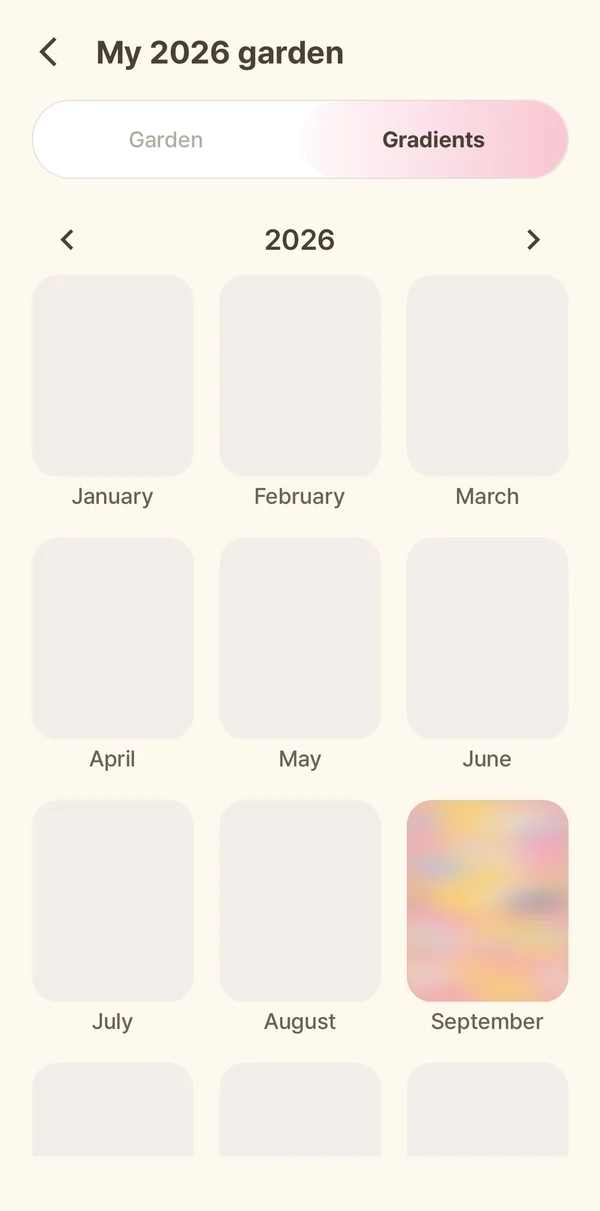
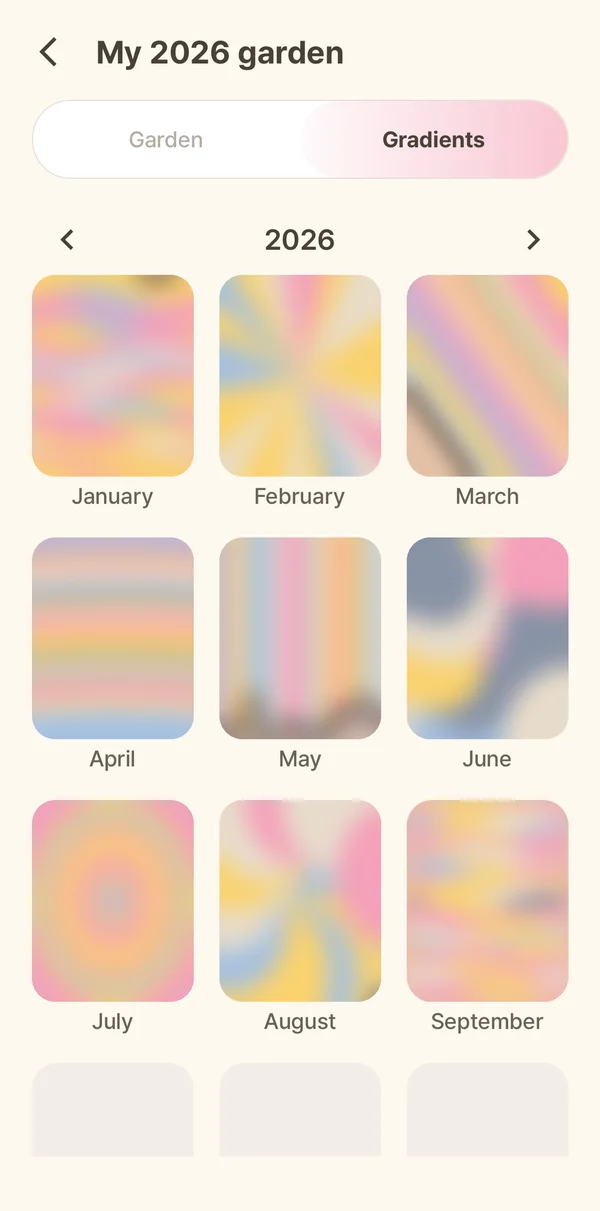
홈페이지 그라데이션 화면: 1~9월이 찬 모습(앱의 그라데이션 생성 규칙으로 그림)

diff --git a/ko/index.html b/ko/index.html
@@ -7,11 +7,11 @@
   <title>데일리몽글 · 광고 없는 감정일기</title>
   <meta name="description" content="몽글이 한 번 누르고 기분만 고르면 끝. 더 남기고 싶은 날엔 짧은 글이나 사진도 붙여 봐요. 광고 없는 감정일기, 데일리몽글.">
   <!-- 파비콘은 회사 심볼(스티커 M) — assets/brand -->
-  <link rel="icon" href="../favicon.ico?v=38" sizes="any">
-  <link rel="icon" href="../assets/brand/favicon-32.png?v=38" type="image/png" sizes="32x32">
-  <link rel="icon" href="../assets/brand/favicon-192.png?v=38" type="image/png" sizes="192x192">
+  <link rel="icon" href="../favicon.ico?v=39" sizes="any">
+  <link rel="icon" href="../assets/brand/favicon-32.png?v=39" type="image/png" sizes="32x32">
+  <link rel="icon" href="../assets/brand/favicon-192.png?v=39" type="image/png" sizes="192x192">
   <link rel="canonical" href="https://mauvelabsinc.com/ko/">
-  <link rel="apple-touch-icon" href="../assets/brand/apple-touch-icon.png?v=38">
+  <link rel="apple-touch-icon" href="../assets/brand/apple-touch-icon.png?v=39">
   <meta name="theme-color" content="#FFF8F0">
   <!-- 사업자등록번호 등 숫자를 아이폰이 전화번호 링크로 바꾸지 않게 -->
   <meta name="format-detection" content="telephone=no">
@@ -31,12 +31,12 @@
   <link rel="alternate" hreflang="x-default" href="https://mauvelabsinc.com/">
   <link rel="preload" href="../assets/fraunces.woff2" as="font" type="font/woff2" crossorigin>
   <link rel="stylesheet" href="https://cdn.jsdelivr.net/gh/orioncactus/pretendard@v1.3.9/dist/web/variable/pretendardvariable-dynamic-subset.min.css">
-  <link rel="stylesheet" href="../assets/site-v2.css?v=38">
+  <link rel="stylesheet" href="../assets/site-v2.css?v=39">
 </head>
 <body>
 <header class="nav wrap">
   <!-- 회사 로고(모브랩스). 원본은 assets/brand/mauvelabs-logo-original.png -->
-  <a class="brand brand-logo" href="./" aria-label="Mauve Labs"><img src="../assets/brand/mauvelabs-logo@2x.png?v=38" alt="Mauve Labs" height="48"></a>
+  <a class="brand brand-logo" href="./" aria-label="Mauve Labs"><img src="../assets/brand/mauvelabs-logo@2x.png?v=39" alt="Mauve Labs" height="48"></a>
   <nav aria-label="Main">
     <a href="#how">사용법</a>
     <a href="#private" class="hide-sm">개인정보</a>
@@ -52,15 +52,15 @@
       <h1>지금 내 기분, <em>가볍게</em> 남겨요.</h1>
       <p class="lede">몽글이 한 번 누르고 기분만 고르면 끝이에요. 더 쓰고 싶은 날엔 짧은 글이나 사진도 붙여 봐요. 광고도, 부담도 없어요.</p>
       <div class="badges">
-        <a href="https://apps.apple.com/app/id6814691795" aria-label="App Store에서 다운로드"><img src="../img/ko/badge-app-store.svg?v=38" alt="App Store에서 다운로드" height="50"></a>
-        <a href="https://play.google.com/store/apps/details?id=com.mauvelabs.maeumlog&amp;referrer=utm_source%3Dmauvelabs-site%26utm_medium%3Dhero" aria-label="Google Play에서 다운로드하기" class="gp"><img src="../img/ko/badge-google-play.png?v=38" alt="Google Play에서 다운로드하기" height="50"></a>
+        <a href="https://apps.apple.com/app/id6814691795" aria-label="App Store에서 다운로드"><img src="../img/ko/badge-app-store.svg?v=39" alt="App Store에서 다운로드" height="50"></a>
+        <a href="https://play.google.com/store/apps/details?id=com.mauvelabs.maeumlog&amp;referrer=utm_source%3Dmauvelabs-site%26utm_medium%3Dhero" aria-label="Google Play에서 다운로드하기" class="gp"><img src="../img/ko/badge-google-play.png?v=39" alt="Google Play에서 다운로드하기" height="50"></a>
       </div>
       <p class="fine">무료 다운로드 · 아이폰, 안드로이드</p>
     </div>
     <div class="hero-art" aria-hidden="true">
       <!-- 홈 화면이 주인공이고, 통계(기분 그래프)는 그 뒤 옆에 조금 작게(홈 화면을 가리지 않는다) -->
-      <img class="phone phone-side" src="../img/ko/screen-5.webp?v=38" alt="" width="210">
-      <img class="phone phone-main" src="../img/ko/screen-1.webp?v=38" alt="" width="300">
+      <img class="phone phone-side" src="../img/ko/screen-5.webp?v=39" alt="" width="210">
+      <img class="phone phone-main" src="../img/ko/screen-1.webp?v=39" alt="" width="300">
       <span class="float m1 mongle" data-anim="mongle-very-good-bounce"><img src="../img/mongle-very-good.webp" alt=""></span>
       <span class="float m2 mongle" data-anim="mongle-good-bounce"><img src="../img/mongle-good.webp" alt=""></span>
     </div>
@@ -87,10 +87,10 @@
       <div class="story-stage" aria-hidden="true">
         <figure class="polaroid stage-frame"><span class="tape stage-tape"></span>
           <div class="stage-screens">
-            <img src="../img/ko/screen-2.webp?v=38" alt="" class="on" data-step="0">
-            <img src="../img/ko/screen-4.webp?v=38" alt="" data-step="1">
-            <img src="../img/ko/screen-gradient.webp?v=38" alt="" data-step="2">
-            <img src="../img/ko/screen-6.webp?v=38" alt="" data-step="3">
+            <img src="../img/ko/screen-2.webp?v=39" alt="" class="on" data-step="0">
+            <img src="../img/ko/screen-4.webp?v=39" alt="" data-step="1">
+            <img src="../img/ko/screen-gradient.webp?v=39" alt="" data-step="2">
+            <img src="../img/ko/screen-6.webp?v=39" alt="" data-step="3">
           </div>
         </figure>
       </div>
@@ -99,25 +99,25 @@
           <span class="step-num">01</span>
           <h3>톡톡 눌러서 끝</h3>
           <p>기분을 고르고, 어떤 감정이었는지, 뭘 했는지 톡톡 눌러요. 글은 안 써도 괜찮아요.</p>
-          <figure class="polaroid step-shot tilt-l"><span class="tape pink"></span><img src="../img/ko/screen-2.webp?v=38" alt="데일리몽글에서 기분·감정·활동을 고르는 화면" width="240"></figure>
+          <figure class="polaroid step-shot tilt-l"><span class="tape pink"></span><img src="../img/ko/screen-2.webp?v=39" alt="데일리몽글에서 기분·감정·활동을 고르는 화면" width="240"></figure>
         </li>
         <li class="step" data-step="1">
           <span class="step-num">02</span>
           <h3>한 달이 꽃으로 피어요</h3>
           <p>하루가 그날 기분 색 꽃잎 한 장이 돼요. 한 달이 지나면 내 마음들이 꽃 한 송이로 피어나요.</p>
-          <figure class="polaroid step-shot tilt-r"><span class="tape mint"></span><img src="../img/ko/screen-4.webp?v=38" alt="데일리몽글에서 한 달의 기분으로 핀 꽃" width="240"></figure>
+          <figure class="polaroid step-shot tilt-r"><span class="tape mint"></span><img src="../img/ko/screen-4.webp?v=39" alt="데일리몽글에서 한 달의 기분으로 핀 꽃" width="240"></figure>
         </li>
         <li class="step" data-step="2">
           <span class="step-num">03</span>
           <h3>한 달이 끝나면, 그라데이션 한 장</h3>
           <p>달이 끝나면 그 달의 기분 색이 하나로 섞여 그라데이션이 돼요. 열두 장이 모이면 나의 한 해예요.</p>
-          <figure class="polaroid step-shot tilt-r"><span class="tape pink"></span><img src="../img/ko/screen-gradient.webp?v=38" alt="데일리몽글의 달마다 남는 기분 그라데이션" width="240"></figure>
+          <figure class="polaroid step-shot tilt-r"><span class="tape pink"></span><img src="../img/ko/screen-gradient.webp?v=39" alt="데일리몽글의 달마다 남는 기분 그라데이션" width="240"></figure>
         </li>
         <li class="step" data-step="3">
           <span class="step-num">04</span>
           <h3>기분 좋은 날엔 뭐가 있었을까?</h3>
           <p>통계를 보면 기분 좋은 날 주로 뭘 했는지 알 수 있어요. 친구를 만났나? 운동했나? 맛있는 한 끼?</p>
-          <figure class="polaroid step-shot tilt-l"><span class="tape lilac"></span><img src="../img/ko/screen-6.webp?v=38" alt="기분에 영향을 준 활동을 보여 주는 데일리몽글 통계" width="240"></figure>
+          <figure class="polaroid step-shot tilt-l"><span class="tape lilac"></span><img src="../img/ko/screen-6.webp?v=39" alt="기분에 영향을 준 활동을 보여 주는 데일리몽글 통계" width="240"></figure>
         </li>
       </ol>
     </div>
@@ -157,8 +157,8 @@
     <span class="mongle cta-mongle" data-anim="mongle-normal-idle"><img src="../img/mongle-normal.webp" alt="" width="180"></span>
     <h2>오늘은 나한테 조금만 너그럽게.</h2>
     <div class="badges center">
-      <a href="https://apps.apple.com/app/id6814691795" aria-label="App Store에서 다운로드"><img src="../img/ko/badge-app-store.svg?v=38" alt="App Store에서 다운로드" height="50"></a>
-      <a href="https://play.google.com/store/apps/details?id=com.mauvelabs.maeumlog&amp;referrer=utm_source%3Dmauvelabs-site%26utm_medium%3Dfooter" aria-label="Google Play에서 다운로드하기" class="gp"><img src="../img/ko/badge-google-play.png?v=38" alt="Google Play에서 다운로드하기" height="50"></a>
+      <a href="https://apps.apple.com/app/id6814691795" aria-label="App Store에서 다운로드"><img src="../img/ko/badge-app-store.svg?v=39" alt="App Store에서 다운로드" height="50"></a>
+      <a href="https://play.google.com/store/apps/details?id=com.mauvelabs.maeumlog&amp;referrer=utm_source%3Dmauvelabs-site%26utm_medium%3Dfooter" aria-label="Google Play에서 다운로드하기" class="gp"><img src="../img/ko/badge-google-play.png?v=39" alt="Google Play에서 다운로드하기" height="50"></a>
     </div>
   </section>
 </main>
@@ -178,7 +178,7 @@
   </div>
 <dl class="biz"><dt>상호</dt><dd>모브랩스(Mauve Labs)</dd><dt>대표자</dt><dd>주창환</dd><dt>사업자등록번호</dt><dd>485-21-02219</dd><dt>통신판매업신고번호</dt><dd>제2026-서울금천-1495호</dd><dt>주소</dt><dd>서울특별시 금천구 범안로12길 29-20, A동 301호(독산동)</dd><dt>이메일</dt><dd>mauvelabs@mauvelabsinc.com</dd></dl><p class="legal">© 2026 모브랩스</p>
 </footer>
-<script src="../assets/scroll.js?v=38"></script>
+<script src="../assets/scroll.js?v=39"></script>
 <script src="../assets/lottie_light.min.js"></script>
 <script>
 /* 몽글이 애니메이션 — 앱과 같은 Lottie(dailycumulus-rn assets/animations)를 웹용으로 줄인 것.
@@ -192,7 +192,7 @@
   document.querySelectorAll('.mongle[data-anim]').forEach(function (el, i) {
     var box = document.createElement('span'); box.className = 'mongle-anim'; el.appendChild(box);
     var a = lottie.loadAnimation({ container: box, renderer: 'svg', loop: true, autoplay: !io,
-      path: '../anim/' + el.dataset.anim + '.json?v=38', rendererSettings: { preserveAspectRatio: 'xMidYMid meet' } });
+      path: '../anim/' + el.dataset.anim + '.json?v=39', rendererSettings: { preserveAspectRatio: 'xMidYMid meet' } });
     a.addEventListener('DOMLoaded', function () {
       a.goToAndStop((i * 17) % a.totalFrames, true); /* 같은 몽글이가 똑같이 움직이지 않게 시작 프레임을 엇갈린다 */
       el.classList.add('is-anim'); el._anim = a; if (io) io.observe(el); else a.play();

diff --git a/index.html b/index.html
@@ -7,11 +7,11 @@
   <title>DailyCumulus: a cute, ad-free mood diary for iPhone and Android</title>
   <meta name="description" content="Tap Mongle, pick how you feel, and you're done. Add a note or a photo if you want. No ads, ever. Made by Mauve Labs.">
   <!-- 파비콘은 회사 심볼(스티커 M) — assets/brand -->
-  <link rel="icon" href="favicon.ico?v=38" sizes="any">
-  <link rel="icon" href="assets/brand/favicon-32.png?v=38" type="image/png" sizes="32x32">
-  <link rel="icon" href="assets/brand/favicon-192.png?v=38" type="image/png" sizes="192x192">
+  <link rel="icon" href="favicon.ico?v=39" sizes="any">
+  <link rel="icon" href="assets/brand/favicon-32.png?v=39" type="image/png" sizes="32x32">
+  <link rel="icon" href="assets/brand/favicon-192.png?v=39" type="image/png" sizes="192x192">
   <link rel="canonical" href="https://mauvelabsinc.com/">
-  <link rel="apple-touch-icon" href="assets/brand/apple-touch-icon.png?v=38">
+  <link rel="apple-touch-icon" href="assets/brand/apple-touch-icon.png?v=39">
   <meta name="theme-color" content="#FFF8F0">
   <!-- 사업자등록번호 등 숫자를 아이폰이 전화번호 링크로 바꾸지 않게 -->
   <meta name="format-detection" content="telephone=no">
@@ -31,12 +31,12 @@
   <link rel="alternate" hreflang="x-default" href="https://mauvelabsinc.com/">
   <link rel="preload" href="assets/fraunces.woff2" as="font" type="font/woff2" crossorigin>
   <link rel="stylesheet" href="https://cdn.jsdelivr.net/gh/orioncactus/pretendard@v1.3.9/dist/web/variable/pretendardvariable-dynamic-subset.min.css">
-  <link rel="stylesheet" href="assets/site-v2.css?v=38">
+  <link rel="stylesheet" href="assets/site-v2.css?v=39">
 </head>
 <body>
 <header class="nav wrap">
   <!-- 회사 로고(모브랩스). 원본은 assets/brand/mauvelabs-logo-original.png -->
-  <a class="brand brand-logo" href="./" aria-label="Mauve Labs"><img src="assets/brand/mauvelabs-logo@2x.png?v=38" alt="Mauve Labs" height="48"></a>
+  <a class="brand brand-logo" href="./" aria-label="Mauve Labs"><img src="assets/brand/mauvelabs-logo@2x.png?v=39" alt="Mauve Labs" height="48"></a>
   <nav aria-label="Main">
     <a href="#how">How it works</a>
     <a href="#private" class="hide-sm">Privacy</a>
@@ -52,15 +52,15 @@
       <h1>A little diary for how you're <em>actually</em> feeling.</h1>
       <p class="lede">Tap Mongle, pick how you feel, and that's it. Want to say more? Add a note or a photo. No ads, no pressure.</p>
       <div class="badges">
-        <a href="https://apps.apple.com/app/id6814691795" aria-label="Download on the App Store"><img src="img/badge-app-store.svg?v=38" alt="Download on the App Store" height="50"></a>
-        <a href="https://play.google.com/store/apps/details?id=com.mauvelabs.maeumlog&amp;referrer=utm_source%3Dmauvelabs-site%26utm_medium%3Dhero" aria-label="Get it on Google Play" class="gp"><img src="img/badge-google-play.png?v=38" alt="Get it on Google Play" height="50"></a>
+        <a href="https://apps.apple.com/app/id6814691795" aria-label="Download on the App Store"><img src="img/badge-app-store.svg?v=39" alt="Download on the App Store" height="50"></a>
+        <a href="https://play.google.com/store/apps/details?id=com.mauvelabs.maeumlog&amp;referrer=utm_source%3Dmauvelabs-site%26utm_medium%3Dhero" aria-label="Get it on Google Play" class="gp"><img src="img/badge-google-play.png?v=39" alt="Get it on Google Play" height="50"></a>
       </div>
       <p class="fine">Free to download · iPhone and Android</p>
     </div>
     <div class="hero-art" aria-hidden="true">
       <!-- 홈 화면이 주인공이고, 통계(기분 그래프)는 그 뒤 옆에 조금 작게(홈 화면을 가리지 않는다) -->
-      <img class="phone phone-side" src="img/screen-5.webp?v=38" alt="" width="210">
-      <img class="phone phone-main" src="img/screen-1.webp?v=38" alt="" width="300">
+      <img class="phone phone-side" src="img/screen-5.webp?v=39" alt="" width="210">
+      <img class="phone phone-main" src="img/screen-1.webp?v=39" alt="" width="300">
       <span class="float m1 mongle" data-anim="mongle-very-good-bounce"><img src="img/mongle-very-good.webp" alt=""></span>
       <span class="float m2 mongle" data-anim="mongle-good-bounce"><img src="img/mongle-good.webp" alt=""></span>
     </div>
@@ -87,10 +87,10 @@
       <div class="story-stage" aria-hidden="true">
         <figure class="polaroid stage-frame"><span class="tape stage-tape"></span>
           <div class="stage-screens">
-            <img src="img/screen-2.webp?v=38" alt="" class="on" data-step="0">
-            <img src="img/screen-4.webp?v=38" alt="" data-step="1">
-            <img src="img/screen-gradient.webp?v=38" alt="" data-step="2">
-            <img src="img/screen-6.webp?v=38" alt="" data-step="3">
+            <img src="img/screen-2.webp?v=39" alt="" class="on" data-step="0">
+            <img src="img/screen-4.webp?v=39" alt="" data-step="1">
+            <img src="img/screen-gradient.webp?v=39" alt="" data-step="2">
+            <img src="img/screen-6.webp?v=39" alt="" data-step="3">
           </div>
         </figure>
       </div>
@@ -99,25 +99,25 @@
           <span class="step-num">01</span>
           <h3>Check in fast</h3>
           <p>Pick a mood, then tap how you felt and what you did. Writing is totally optional.</p>
-          <figure class="polaroid step-shot tilt-l"><span class="tape pink"></span><img src="img/screen-2.webp?v=38" alt="Choosing a mood, feelings and activities in DailyCumulus" width="240"></figure>
+          <figure class="polaroid step-shot tilt-l"><span class="tape pink"></span><img src="img/screen-2.webp?v=39" alt="Choosing a mood, feelings and activities in DailyCumulus" width="240"></figure>
         </li>
         <li class="step" data-step="1">
           <span class="step-num">02</span>
           <h3>Watch your month bloom</h3>
           <p>Every day adds a petal in that day's mood color. By the end of the month, your feelings have grown into a flower.</p>
-          <figure class="polaroid step-shot tilt-r"><span class="tape mint"></span><img src="img/screen-4.webp?v=38" alt="A flower grown from a month of moods in DailyCumulus" width="240"></figure>
+          <figure class="polaroid step-shot tilt-r"><span class="tape mint"></span><img src="img/screen-4.webp?v=39" alt="A flower grown from a month of moods in DailyCumulus" width="240"></figure>
         </li>
         <li class="step" data-step="2">
           <span class="step-num">03</span>
           <h3>Keep every month as a gradient</h3>
           <p>When a month ends, all its mood colors blend into one soft gradient. Collect twelve and that's your year.</p>
-          <figure class="polaroid step-shot tilt-r"><span class="tape pink"></span><img src="img/screen-gradient.webp?v=38" alt="Monthly mood gradients in DailyCumulus" width="240"></figure>
+          <figure class="polaroid step-shot tilt-r"><span class="tape pink"></span><img src="img/screen-gradient.webp?v=39" alt="Monthly mood gradients in DailyCumulus" width="240"></figure>
         </li>
         <li class="step" data-step="3">
           <span class="step-num">04</span>
           <h3>Find out what makes your day better</h3>
           <p>Your stats show what's usually going on when you feel good. Seeing friends? Working out? A good meal?</p>
-          <figure class="polaroid step-shot tilt-l"><span class="tape lilac"></span><img src="img/screen-6.webp?v=38" alt="DailyCumulus stats showing what lifts your mood" width="240"></figure>
+          <figure class="polaroid step-shot tilt-l"><span class="tape lilac"></span><img src="img/screen-6.webp?v=39" alt="DailyCumulus stats showing what lifts your mood" width="240"></figure>
         </li>
       </ol>
     </div>
@@ -157,8 +157,8 @@
     <span class="mongle cta-mongle" data-anim="mongle-normal-idle"><img src="img/mongle-normal.webp" alt="" width="180"></span>
     <h2>Go easy on yourself today.</h2>
     <div class="badges center">
-      <a href="https://apps.apple.com/app/id6814691795" aria-label="Download on the App Store"><img src="img/badge-app-store.svg?v=38" alt="Download on the App Store" height="50"></a>
-      <a href="https://play.google.com/store/apps/details?id=com.mauvelabs.maeumlog&amp;referrer=utm_source%3Dmauvelabs-site%26utm_medium%3Dfooter" aria-label="Get it on Google Play" class="gp"><img src="img/badge-google-play.png?v=38" alt="Get it on Google Play" height="50"></a>
+      <a href="https://apps.apple.com/app/id6814691795" aria-label="Download on the App Store"><img src="img/badge-app-store.svg?v=39" alt="Download on the App Store" height="50"></a>
+      <a href="https://play.google.com/store/apps/details?id=com.mauvelabs.maeumlog&amp;referrer=utm_source%3Dmauvelabs-site%26utm_medium%3Dfooter" aria-label="Get it on Google Play" class="gp"><img src="img/badge-google-play.png?v=39" alt="Get it on Google Play" height="50"></a>
     </div>
   </section>
 </main>
@@ -178,7 +178,7 @@
   </div>
 <p class="legal">© 2026 Mauve Labs · mauvelabs@mauvelabsinc.com · Seoul, Republic of Korea</p>
 </footer>
-<script src="assets/scroll.js?v=38"></script>
+<script src="assets/scroll.js?v=39"></script>
 <script src="assets/lottie_light.min.js"></script>
 <script>
 /* 몽글이 애니메이션 — 앱과 같은 Lottie(dailycumulus-rn assets/animations)를 웹용으로 줄인 것.
@@ -192,7 +192,7 @@
   document.querySelectorAll('.mongle[data-anim]').forEach(function (el, i) {
     var box = document.createElement('span'); box.className = 'mongle-anim'; el.appendChild(box);
     var a = lottie.loadAnimation({ container: box, renderer: 'svg', loop: true, autoplay: !io,
-      path: 'anim/' + el.dataset.anim + '.json?v=38', rendererSettings: { preserveAspectRatio: 'xMidYMid meet' } });
+      path: 'anim/' + el.dataset.anim + '.json?v=39', rendererSettings: { preserveAspectRatio: 'xMidYMid meet' } });
     a.addEventListener('DOMLoaded', function () {
       a.goToAndStop((i * 17) % a.totalFrames, true); /* 같은 몽글이가 똑같이 움직이지 않게 시작 프레임을 엇갈린다 */
       el.classList.add('is-anim'); el._anim = a; if (io) io.observe(el); else a.play();

diff --git a/build.py b/build.py
@@ -18,7 +18,7 @@ import sys
 ROOT = os.path.dirname(os.path.abspath(__file__))
 SITE = 'https://mauvelabsinc.com/'
 # CSS·JS·애니메이션을 고치면 올린다 — 브라우저가 옛 파일을 붙들지 않게
-VERSION = '38'
+VERSION = '39'
 
 
 def load_locales():
